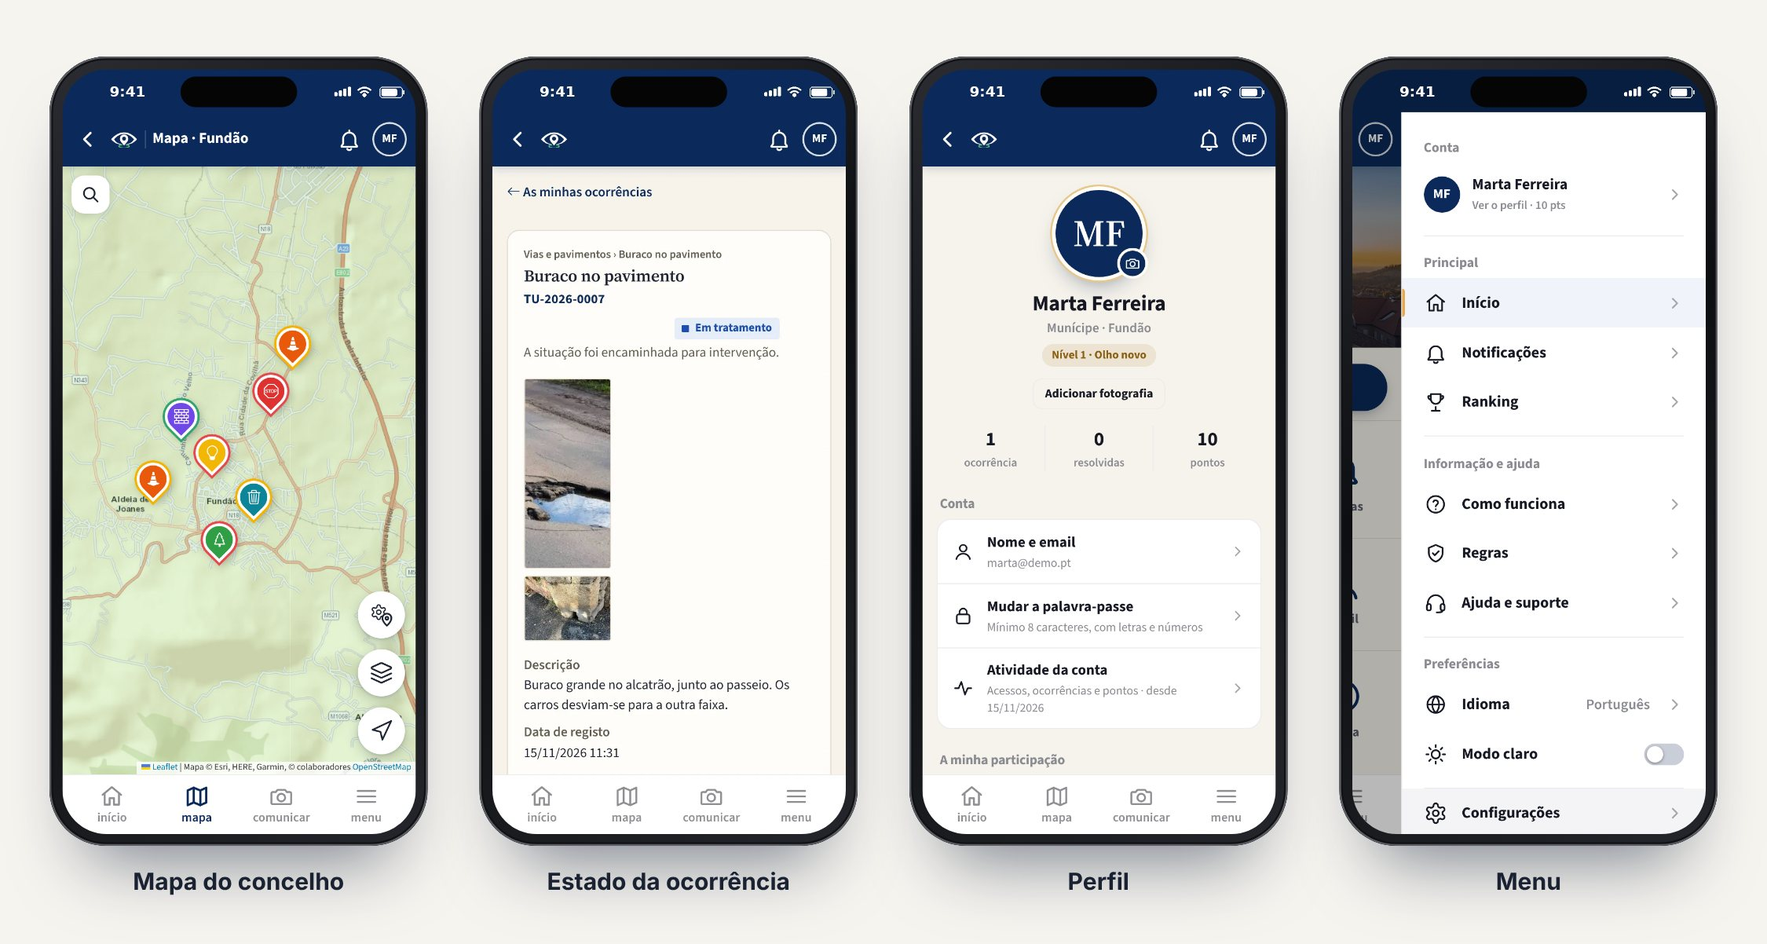
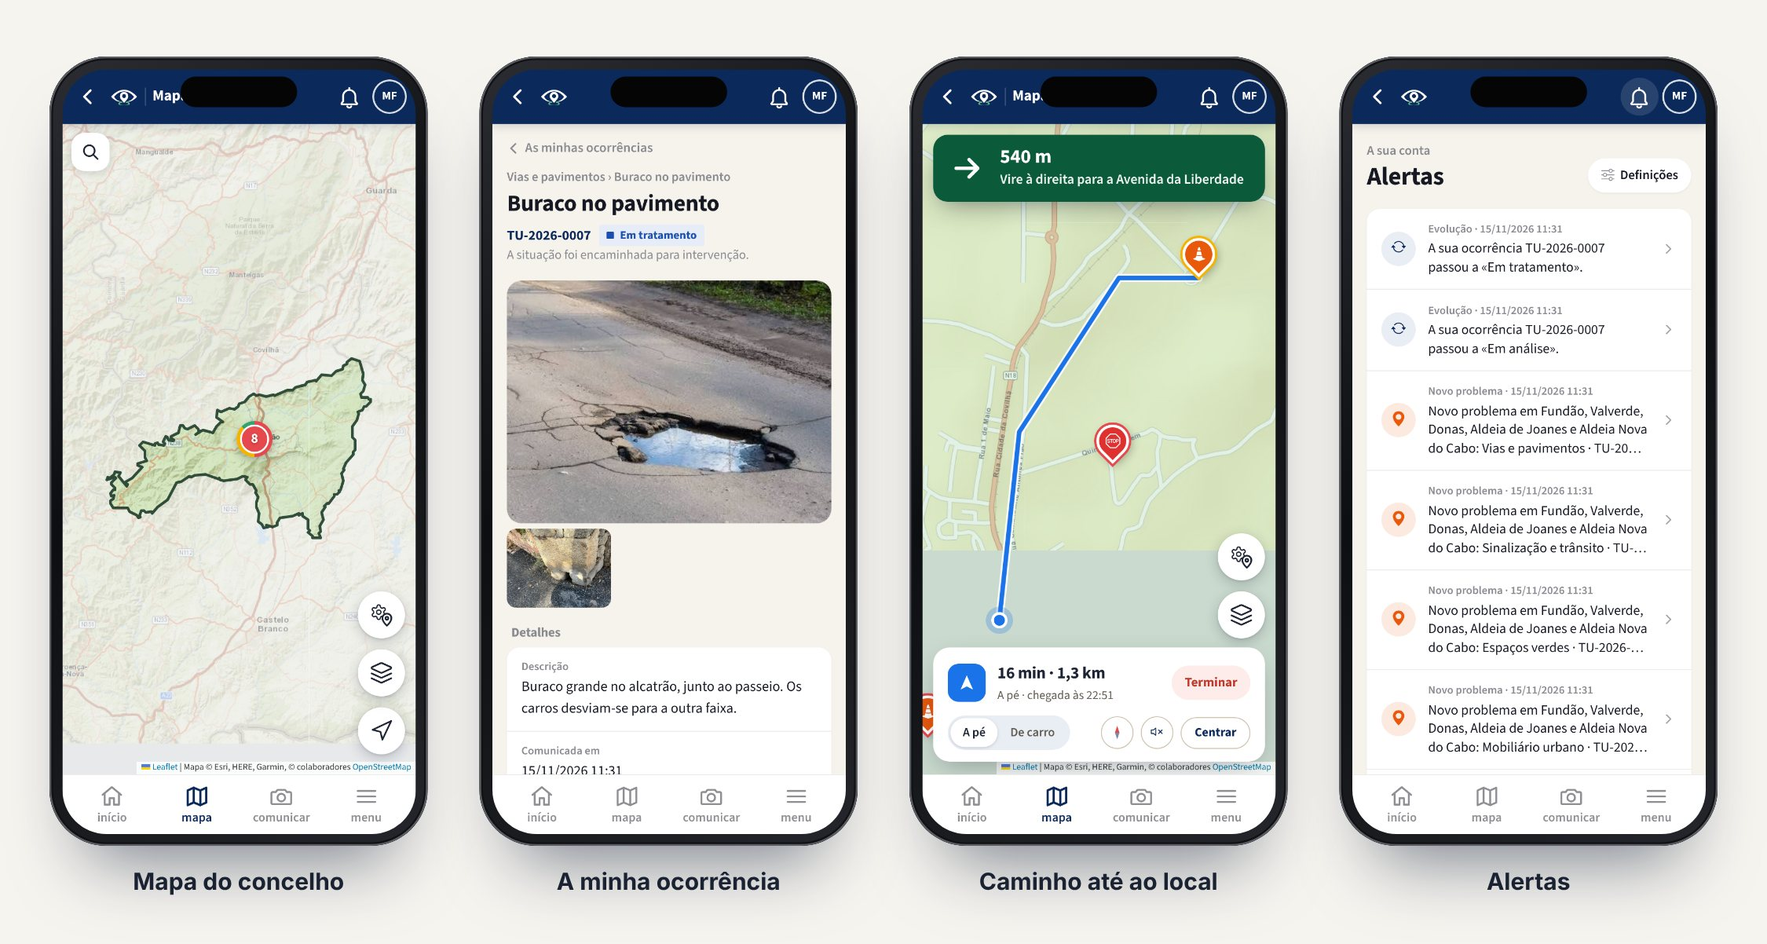
Townly Up: atualização de 24/11/2026 22:39
Claude-Session: https://claude.ai/code/session_0159C4EZM2L8GGhkKoNKaCCg

diff --git a/README.md b/README.md
@@ -1,5 +1,5 @@
 <p align="center">
-  <img src="static/img/logo.svg" alt="Townly Up" width="132">
+  <img src="smartfundao/static/img/logo.svg" alt="Townly Up" width="132">
 </p>
 
 <h1 align="center">Townly Up</h1>
@@ -13,10 +13,12 @@
   <img alt="Python" src="https://img.shields.io/badge/Python-3.11%2B-0b2a5b">
   <img alt="Flask" src="https://img.shields.io/badge/Flask-3-0b2a5b">
   <img alt="PostgreSQL" src="https://img.shields.io/badge/PostgreSQL-16-0b2a5b">
-  <img alt="Testes" src="https://img.shields.io/badge/testes-146%20a%20passar-0e9a3e">
+  <img alt="Testes" src="https://img.shields.io/badge/testes-151%20a%20passar-0e9a3e">
   <img alt="PWA" src="https://img.shields.io/badge/PWA-instal%C3%A1vel-0e9a3e">
 </p>
 
+> O código da aplicação está na pasta [`smartfundao/`](smartfundao/).
+>
 > **Prova de Aptidão Profissional (PAP)** · 12.º ano · Curso Profissional de Técnico de Desenvolvimento de Software
 > Tema: *Desenvolvimento de um sistema digital de identificação de problemas urbanos.*
 > Projeto académico, pensado a partir do concelho do Fundão. Não é um serviço oficial de nenhuma Câmara Municipal.
@@ -69,19 +71,25 @@ Capturas reais da aplicação num telemóvel (390 × 844). As ocorrências mostr
 ### Comunicar um problema
 
 <p align="center">
-  <img src="docs/imagens/prototipo-municipe.jpg" alt="Início, comunicar, fotografia e número de referência" width="100%">
+  <img src="smartfundao/docs/imagens/prototipo-municipe.jpg" alt="Início, tipo de problema, fotografia e local, número de referência" width="100%">
 </p>
 
 ### Acompanhar e participar
 
 <p align="center">
-  <img src="docs/imagens/prototipo-acompanhar.jpg" alt="Mapa, estado da ocorrência, menu e perfil" width="100%">
+  <img src="smartfundao/docs/imagens/prototipo-acompanhar.jpg" alt="Mapa, a minha ocorrência, caminho até ao local e alertas" width="100%">
+</p>
+
+### Conta, definições e instalar a app
+
+<p align="center">
+  <img src="smartfundao/docs/imagens/prototipo-app.jpg" alt="Entrar com Google ou email, perfil, definições e instalar a app" width="100%">
 </p>
 
 ### Área da Câmara e da plataforma
 
 <p align="center">
-  <img src="docs/imagens/prototipo-camara.jpg" alt="Câmaras Municipais, todas as ocorrências e estatísticas" width="100%">
+  <img src="smartfundao/docs/imagens/prototipo-camara.jpg" alt="Todas as ocorrências, tratar uma ocorrência, Câmaras Municipais e estatísticas" width="100%">
 </p>
 
 ---
@@ -107,16 +115,20 @@ Capturas reais da aplicação num telemóvel (390 × 844). As ocorrências mostr
 
 | Funcionalidade | Descrição |
 |---|---|
-| **Comunicar em 3 passos** | Categoria e caso concreto → fotografias (até 3) e descrição → local por GPS, com marcador arrastável |
+| **Comunicar em 2 passos** | 1) tipo de problema e caso concreto · 2) fotografia (até 3, câmara da app ou galeria) com uma frase de descrição |
+| **Local registado com a fotografia** | Lido do GPS guardado na fotografia ou da localização do telemóvel no momento; segue a 1.ª fotografia e pode ser acertado no mapa |
 | **Número de referência** | `TU-AAAA-NNNN`, mostrado no ecrã e enviado por email com o resumo e a ligação para acompanhar |
 | **Validação do local** | A ocorrência tem de ficar dentro do concelho da pessoa (limites oficiais) |
 | **Aviso de repetidos** | Antes de enviar, mostra problemas parecidos já comunicados ali perto |
 | **Mapa vivo** | Todas as ocorrências do concelho por cor de estado, camada de freguesias, satélite ou ruas, localização atual e lista «Todas as ocorrências» |
+| **Caminho até ao local** | Dentro da app, em tempo real: a pé ou de carro, indicações curva a curva (com voz), mapa a rodar com a direção, sem abrir outras apps |
 | **«Eu também vi» / «Já foi resolvido?»** | Cada pessoa confirma uma vez; o pedido ganha força sem ficar duplicado |
 | **Alertas** | Mudanças de estado das suas ocorrências e novos problemas na zona que acompanha |
 | **Pontos, níveis e ranking** | Olho novo → Olho atento → Vigilante do bairro → Guardião da cidade → Embaixador Townly |
 | **Perfil** | Fotografia (qualquer formato de imagem, incluindo HEIC), nome, email, palavra-passe, atividade e terminar sessão num só sítio |
-| **Definições** | O meu concelho (Distrito → Concelho), notificações, tema claro/escuro, idioma, apagar a conta |
+| **Entrar com o Google** | «Continuar com o Google» cria ou liga a conta de munícipe (OpenID Connect) |
+| **Definições** | O meu concelho (Distrito → Concelho), notificações, tema claro/escuro, idioma, instalar a app, apagar a conta |
+| **App no telemóvel** | Instala-se no ecrã inicial do Android e do iPhone (PWA): ecrã inteiro, ícone, atalhos e atualizações automáticas |
 | **Apagar uma ocorrência** | Enquanto estiver «Registada» ou «Em análise»; o histórico fica guardado |
 | **Como funciona** | Guia passo a passo com imagens reais da aplicação |
 
@@ -166,10 +178,12 @@ flowchart LR
 | Camada | Tecnologia |
 |---|---|
 | Backend | Python 3.11+ · Flask 3 (app factory, blueprints) · Jinja2 |
-| Base de dados | PostgreSQL (psycopg 3, pool de ligações) · SQLite como alternativa sem instalação · 16 migrações versionadas |
+| Base de dados | PostgreSQL (psycopg 3, pool de ligações) · SQLite como alternativa sem instalação · 17 migrações versionadas |
 | Imagens | Pillow (validação pelo conteúdo, rotação EXIF, redução, remoção de metadados GPS) · pillow-heif opcional |
-| Frontend | HTML · CSS próprio · Bootstrap 5 · Leaflet 1.9 com mapas Esri · Source Sans 3 / Source Serif 4 |
-| Mobile | PWA (manifest + service worker, página offline), HTTPS local para GPS no telemóvel |
+| Frontend | HTML · CSS próprio · Bootstrap 5 · Leaflet 1.9 com mapas Esri · Source Sans 3 |
+| Mobile | PWA instalável (manifest com imagens e atalhos, service worker, página offline) · câmara e GPS do telemóvel |
+| Rotas | OSRM / OpenStreetMap (routing.openstreetmap.de) para o caminho em tempo real |
+| Contas | Email e palavra-passe · Google (OpenID Connect, sem bibliotecas extra) |
 | Inteligência | Claude API (visão) para moderação de fotografias · dHash para comparar fotografias |
 | Comunicações | Brevo (email e SMS) · SMTP · pasta `outbox` sem configuração |
 | Servidor | gunicorn · Render · Neon (PostgreSQL gerido) |
@@ -189,16 +203,17 @@ smartfundao/
 ├── supervision.py      estatísticas da plataforma
 ├── similarity.py       deteção de ocorrências repetidas
 ├── moderation.py       moderação de fotografias (Claude API)
+├── google_auth.py      «Continuar com o Google» (OpenID Connect)
 ├── profanity.py        filtro de linguagem imprópria
 ├── territory.py        distritos, concelhos e concelhos ativos
 ├── geo.py              em que freguesia fica um ponto
 ├── mailer.py · sms.py  email e SMS
 ├── db.py               ligação PostgreSQL/SQLite, transações, migrações
 ├── reference.py        dados de referência: freguesias, entidades, categorias
-├── migrations/         postgres/ e sqlite/ (0001 → 0016)
+├── migrations/         postgres/ e sqlite/ (0001 → 0017)
 ├── templates/          páginas Jinja2 (citizen/, admin/, pages/, emails/, errors/)
 ├── static/             css/, js/ (live.js, map.js, new_incident.js), img/, data/ (GeoJSON)
-├── tests/              146 testes automáticos
+├── tests/              151 testes automáticos
 ├── docs/imagens/       imagens deste README
 └── *.command           atalhos para o macOS (duplo clique)
 ```
@@ -223,6 +238,8 @@ smartfundao/
 | `repor_conta_principal.command` | Repõe a conta principal da plataforma |
 | `apagar_contas_camara.command` | Apaga as contas das Câmaras (para as criar de novo) |
 | `apagar_tudo.command` | Recomeça a base de dados do zero |
+| `configurar_google.command` | Guarda as chaves do «Continuar com o Google» no `.env` (o segredo não aparece no ecrã) |
+| `enviar_github.command` | Envia a versão atual para o GitHub (o `.env`, a base de dados e as fotografias nunca vão) |
 
 > No macOS a porta 5000 está ocupada pelo AirPlay Receiver, por isso usamos a 8000.
 
@@ -341,9 +358,9 @@ python -m pytest -q                                                   # SQLite
 TEST_DATABASE_URL=postgresql://postgres:postgres@127.0.0.1:5432/postgres python -m pytest -q   # PostgreSQL
 ```
 
-**146 testes automáticos**, todos a passar nas duas bases de dados. Cobrem os testes de aceitação do caderno
+**151 testes automáticos**, todos a passar nas duas bases de dados. Cobrem os testes de aceitação do caderno
 de encargos, contas e permissões, Câmaras por concelho, encaminhamento, estados e histórico, comunidade e pontos,
-repetidos, moderação, perfil, definições, território, SMS e restrições da base de dados.
+repetidos, moderação, perfil, definições, território, SMS, entrar com o Google e restrições da base de dados.
 
 A experiência no telemóvel deve também ser confirmada à mão (`telemovel.command`) ou nas ferramentas de programador do navegador.
 
@@ -355,9 +372,12 @@ A experiência no telemóvel deve também ser confirmada à mão (`telemovel.com
 
 1. **[Neon](https://neon.com)**: criar o projeto (região Frankfurt) e copiar o *connection string*.
 2. **GitHub**: enviar o código para `github.com/geraldosense/Townly_Up`.
-3. **[Render](https://render.com)**: *New → Blueprint* → escolher o repositório. O `render.yaml` cria o serviço;
-   colar o endereço do Neon em `DATABASE_URL` e definir `ADMIN_EMAIL` e `ADMIN_PASSWORD`. O `start.sh` aplica as
-   migrações, cria a conta principal e arranca o `gunicorn`.
+3. **[Render](https://render.com)**: *New → Blueprint* → escolher o repositório. O `render.yaml` (na raiz do repositório,
+   com `rootDir: smartfundao`) cria o serviço; colar o endereço do Neon em `DATABASE_URL`, definir `ADMIN_EMAIL`,
+   `ADMIN_PASSWORD` e `PUBLIC_URL`. O `start.sh` aplica as migrações, cria a conta principal e arranca o `gunicorn`.
+   O Render confirma que a app está viva em `/saude`.
+4. **Telemóveis**: abrir o endereço público e escolher **Instalar a app** (Android) ou **Partilhar › Adicionar ao ecrã principal** (iPhone).
+5. **Google** (opcional): juntar `https://<endereço>/entrar/google/retorno` aos URIs de redirecionamento e definir as duas chaves.
 
 No plano gratuito o site adormece após 15 minutos sem visitas. As fotografias ficam na base de dados,
 porque o disco do Render apaga-se ao reiniciar.
@@ -381,6 +401,7 @@ Nenhuma é obrigatória para correr no Mac. As chaves ficam **sempre** fora do c
 | `BREVO_API_KEY`, `SMS_SENDER` | Email e SMS pela Brevo |
 | `MAIL_SERVER`, `MAIL_PORT`, `MAIL_USERNAME`, `MAIL_PASSWORD`, `MAIL_FROM`, `MAIL_FROM_NAME` | Email por SMTP |
 | `CONTACT_EMAIL` | Contacto mostrado nas páginas de ajuda |
+| `GOOGLE_CLIENT_ID`, `GOOGLE_CLIENT_SECRET`, `GOOGLE_REDIRECT_URI` | «Continuar com o Google» (o último só se o endereço de retorno for fixo) |
 | `TEST_ACCOUNTS` | Permitir as contas de teste |
 | `PLAY_STORE_URL`, `APP_STORE_URL` | Ligações para as futuras apps |
 | `TEMPLATES_AUTO_RELOAD` | Recarregar as páginas durante o desenvolvimento |
@@ -391,7 +412,7 @@ Nenhuma é obrigatória para correr no Mac. As chaves ficam **sempre** fora do c
 
 - **Logótipo**: `static/img/logo.svg` (olho + marcador + anel), também usado como ícone da app.
 - **Cores**: azul-marinho `#0b2a5b` (marca) e verde `#0e9a3e` (ações e sucesso), definidas no topo de `static/css/style.css` (`--tu-*`).
-- **Tipografia**: Source Sans 3 (texto) e Source Serif 4 (títulos).
+- **Tipografia**: Source Sans 3 em toda a app (títulos a negrito).
 - Tema claro por omissão, com tema escuro nas Definições.
 
 ---

diff --git a/smartfundao/README.md b/smartfundao/README.md
@@ -13,7 +13,7 @@
   <img alt="Python" src="https://img.shields.io/badge/Python-3.11%2B-0b2a5b">
   <img alt="Flask" src="https://img.shields.io/badge/Flask-3-0b2a5b">
   <img alt="PostgreSQL" src="https://img.shields.io/badge/PostgreSQL-16-0b2a5b">
-  <img alt="Testes" src="https://img.shields.io/badge/testes-146%20a%20passar-0e9a3e">
+  <img alt="Testes" src="https://img.shields.io/badge/testes-151%20a%20passar-0e9a3e">
   <img alt="PWA" src="https://img.shields.io/badge/PWA-instal%C3%A1vel-0e9a3e">
 </p>
 
@@ -69,19 +69,25 @@ Capturas reais da aplicação num telemóvel (390 × 844). As ocorrências mostr
 ### Comunicar um problema
 
 <p align="center">
-  <img src="docs/imagens/prototipo-municipe.jpg" alt="Início, comunicar, fotografia e número de referência" width="100%">
+  <img src="docs/imagens/prototipo-municipe.jpg" alt="Início, tipo de problema, fotografia e local, número de referência" width="100%">
 </p>
 
 ### Acompanhar e participar
 
 <p align="center">
-  <img src="docs/imagens/prototipo-acompanhar.jpg" alt="Mapa, estado da ocorrência, menu e perfil" width="100%">
+  <img src="docs/imagens/prototipo-acompanhar.jpg" alt="Mapa, a minha ocorrência, caminho até ao local e alertas" width="100%">
+</p>
+
+### Conta, definições e instalar a app
+
+<p align="center">
+  <img src="docs/imagens/prototipo-app.jpg" alt="Entrar com Google ou email, perfil, definições e instalar a app" width="100%">
 </p>
 
 ### Área da Câmara e da plataforma
 
 <p align="center">
-  <img src="docs/imagens/prototipo-camara.jpg" alt="Câmaras Municipais, todas as ocorrências e estatísticas" width="100%">
+  <img src="docs/imagens/prototipo-camara.jpg" alt="Todas as ocorrências, tratar uma ocorrência, Câmaras Municipais e estatísticas" width="100%">
 </p>
 
 ---
@@ -107,16 +113,20 @@ Capturas reais da aplicação num telemóvel (390 × 844). As ocorrências mostr
 
 | Funcionalidade | Descrição |
 |---|---|
-| **Comunicar em 3 passos** | Categoria e caso concreto → fotografias (até 3) e descrição → local por GPS, com marcador arrastável |
+| **Comunicar em 2 passos** | 1) tipo de problema e caso concreto · 2) fotografia (até 3, câmara da app ou galeria) com uma frase de descrição |
+| **Local registado com a fotografia** | Lido do GPS guardado na fotografia ou da localização do telemóvel no momento; segue a 1.ª fotografia e pode ser acertado no mapa |
 | **Número de referência** | `TU-AAAA-NNNN`, mostrado no ecrã e enviado por email com o resumo e a ligação para acompanhar |
 | **Validação do local** | A ocorrência tem de ficar dentro do concelho da pessoa (limites oficiais) |
 | **Aviso de repetidos** | Antes de enviar, mostra problemas parecidos já comunicados ali perto |
 | **Mapa vivo** | Todas as ocorrências do concelho por cor de estado, camada de freguesias, satélite ou ruas, localização atual e lista «Todas as ocorrências» |
+| **Caminho até ao local** | Dentro da app, em tempo real: a pé ou de carro, indicações curva a curva (com voz), mapa a rodar com a direção, sem abrir outras apps |
 | **«Eu também vi» / «Já foi resolvido?»** | Cada pessoa confirma uma vez; o pedido ganha força sem ficar duplicado |
 | **Alertas** | Mudanças de estado das suas ocorrências e novos problemas na zona que acompanha |
 | **Pontos, níveis e ranking** | Olho novo → Olho atento → Vigilante do bairro → Guardião da cidade → Embaixador Townly |
 | **Perfil** | Fotografia (qualquer formato de imagem, incluindo HEIC), nome, email, palavra-passe, atividade e terminar sessão num só sítio |
-| **Definições** | O meu concelho (Distrito → Concelho), notificações, tema claro/escuro, idioma, apagar a conta |
+| **Entrar com o Google** | «Continuar com o Google» cria ou liga a conta de munícipe (OpenID Connect) |
+| **Definições** | O meu concelho (Distrito → Concelho), notificações, tema claro/escuro, idioma, instalar a app, apagar a conta |
+| **App no telemóvel** | Instala-se no ecrã inicial do Android e do iPhone (PWA): ecrã inteiro, ícone, atalhos e atualizações automáticas |
 | **Apagar uma ocorrência** | Enquanto estiver «Registada» ou «Em análise»; o histórico fica guardado |
 | **Como funciona** | Guia passo a passo com imagens reais da aplicação |
 
@@ -166,10 +176,12 @@ flowchart LR
 | Camada | Tecnologia |
 |---|---|
 | Backend | Python 3.11+ · Flask 3 (app factory, blueprints) · Jinja2 |
-| Base de dados | PostgreSQL (psycopg 3, pool de ligações) · SQLite como alternativa sem instalação · 16 migrações versionadas |
+| Base de dados | PostgreSQL (psycopg 3, pool de ligações) · SQLite como alternativa sem instalação · 17 migrações versionadas |
 | Imagens | Pillow (validação pelo conteúdo, rotação EXIF, redução, remoção de metadados GPS) · pillow-heif opcional |
-| Frontend | HTML · CSS próprio · Bootstrap 5 · Leaflet 1.9 com mapas Esri · Source Sans 3 / Source Serif 4 |
-| Mobile | PWA (manifest + service worker, página offline), HTTPS local para GPS no telemóvel |
+| Frontend | HTML · CSS próprio · Bootstrap 5 · Leaflet 1.9 com mapas Esri · Source Sans 3 |
+| Mobile | PWA instalável (manifest com imagens e atalhos, service worker, página offline) · câmara e GPS do telemóvel |
+| Rotas | OSRM / OpenStreetMap (routing.openstreetmap.de) para o caminho em tempo real |
+| Contas | Email e palavra-passe · Google (OpenID Connect, sem bibliotecas extra) |
 | Inteligência | Claude API (visão) para moderação de fotografias · dHash para comparar fotografias |
 | Comunicações | Brevo (email e SMS) · SMTP · pasta `outbox` sem configuração |
 | Servidor | gunicorn · Render · Neon (PostgreSQL gerido) |
@@ -189,16 +201,17 @@ smartfundao/
 ├── supervision.py      estatísticas da plataforma
 ├── similarity.py       deteção de ocorrências repetidas
 ├── moderation.py       moderação de fotografias (Claude API)
+├── google_auth.py      «Continuar com o Google» (OpenID Connect)
 ├── profanity.py        filtro de linguagem imprópria
 ├── territory.py        distritos, concelhos e concelhos ativos
 ├── geo.py              em que freguesia fica um ponto
 ├── mailer.py · sms.py  email e SMS
 ├── db.py               ligação PostgreSQL/SQLite, transações, migrações
 ├── reference.py        dados de referência: freguesias, entidades, categorias
-├── migrations/         postgres/ e sqlite/ (0001 → 0016)
+├── migrations/         postgres/ e sqlite/ (0001 → 0017)
 ├── templates/          páginas Jinja2 (citizen/, admin/, pages/, emails/, errors/)
 ├── static/             css/, js/ (live.js, map.js, new_incident.js), img/, data/ (GeoJSON)
-├── tests/              146 testes automáticos
+├── tests/              151 testes automáticos
 ├── docs/imagens/       imagens deste README
 └── *.command           atalhos para o macOS (duplo clique)
 ```
@@ -223,6 +236,8 @@ smartfundao/
 | `repor_conta_principal.command` | Repõe a conta principal da plataforma |
 | `apagar_contas_camara.command` | Apaga as contas das Câmaras (para as criar de novo) |
 | `apagar_tudo.command` | Recomeça a base de dados do zero |
+| `configurar_google.command` | Guarda as chaves do «Continuar com o Google» no `.env` (o segredo não aparece no ecrã) |
+| `enviar_github.command` | Envia a versão atual para o GitHub (o `.env`, a base de dados e as fotografias nunca vão) |
 
 > No macOS a porta 5000 está ocupada pelo AirPlay Receiver, por isso usamos a 8000.
 
@@ -341,9 +356,9 @@ python -m pytest -q                                                   # SQLite
 TEST_DATABASE_URL=postgresql://postgres:postgres@127.0.0.1:5432/postgres python -m pytest -q   # PostgreSQL
 ```
 
-**146 testes automáticos**, todos a passar nas duas bases de dados. Cobrem os testes de aceitação do caderno
+**151 testes automáticos**, todos a passar nas duas bases de dados. Cobrem os testes de aceitação do caderno
 de encargos, contas e permissões, Câmaras por concelho, encaminhamento, estados e histórico, comunidade e pontos,
-repetidos, moderação, perfil, definições, território, SMS e restrições da base de dados.
+repetidos, moderação, perfil, definições, território, SMS, entrar com o Google e restrições da base de dados.
 
 A experiência no telemóvel deve também ser confirmada à mão (`telemovel.command`) ou nas ferramentas de programador do navegador.
 
@@ -355,9 +370,12 @@ A experiência no telemóvel deve também ser confirmada à mão (`telemovel.com
 
 1. **[Neon](https://neon.com)**: criar o projeto (região Frankfurt) e copiar o *connection string*.
 2. **GitHub**: enviar o código para `github.com/geraldosense/Townly_Up`.
-3. **[Render](https://render.com)**: *New → Blueprint* → escolher o repositório. O `render.yaml` cria o serviço;
-   colar o endereço do Neon em `DATABASE_URL` e definir `ADMIN_EMAIL` e `ADMIN_PASSWORD`. O `start.sh` aplica as
-   migrações, cria a conta principal e arranca o `gunicorn`.
+3. **[Render](https://render.com)**: *New → Blueprint* → escolher o repositório. O `render.yaml` (na raiz do repositório,
+   com `rootDir: smartfundao`) cria o serviço; colar o endereço do Neon em `DATABASE_URL`, definir `ADMIN_EMAIL`,
+   `ADMIN_PASSWORD` e `PUBLIC_URL`. O `start.sh` aplica as migrações, cria a conta principal e arranca o `gunicorn`.
+   O Render confirma que a app está viva em `/saude`.
+4. **Telemóveis**: abrir o endereço público e escolher **Instalar a app** (Android) ou **Partilhar › Adicionar ao ecrã principal** (iPhone).
+5. **Google** (opcional): juntar `https://<endereço>/entrar/google/retorno` aos URIs de redirecionamento e definir as duas chaves.
 
 No plano gratuito o site adormece após 15 minutos sem visitas. As fotografias ficam na base de dados,
 porque o disco do Render apaga-se ao reiniciar.
@@ -381,6 +399,7 @@ Nenhuma é obrigatória para correr no Mac. As chaves ficam **sempre** fora do c
 | `BREVO_API_KEY`, `SMS_SENDER` | Email e SMS pela Brevo |
 | `MAIL_SERVER`, `MAIL_PORT`, `MAIL_USERNAME`, `MAIL_PASSWORD`, `MAIL_FROM`, `MAIL_FROM_NAME` | Email por SMTP |
 | `CONTACT_EMAIL` | Contacto mostrado nas páginas de ajuda |
+| `GOOGLE_CLIENT_ID`, `GOOGLE_CLIENT_SECRET`, `GOOGLE_REDIRECT_URI` | «Continuar com o Google» (o último só se o endereço de retorno for fixo) |
 | `TEST_ACCOUNTS` | Permitir as contas de teste |
 | `PLAY_STORE_URL`, `APP_STORE_URL` | Ligações para as futuras apps |
 | `TEMPLATES_AUTO_RELOAD` | Recarregar as páginas durante o desenvolvimento |
@@ -391,7 +410,7 @@ Nenhuma é obrigatória para correr no Mac. As chaves ficam **sempre** fora do c
 
 - **Logótipo**: `static/img/logo.svg` (olho + marcador + anel), também usado como ícone da app.
 - **Cores**: azul-marinho `#0b2a5b` (marca) e verde `#0e9a3e` (ações e sucesso), definidas no topo de `static/css/style.css` (`--tu-*`).
-- **Tipografia**: Source Sans 3 (texto) e Source Serif 4 (títulos).
+- **Tipografia**: Source Sans 3 em toda a app (títulos a negrito).
 - Tema claro por omissão, com tema escuro nas Definições.
 
 ---
